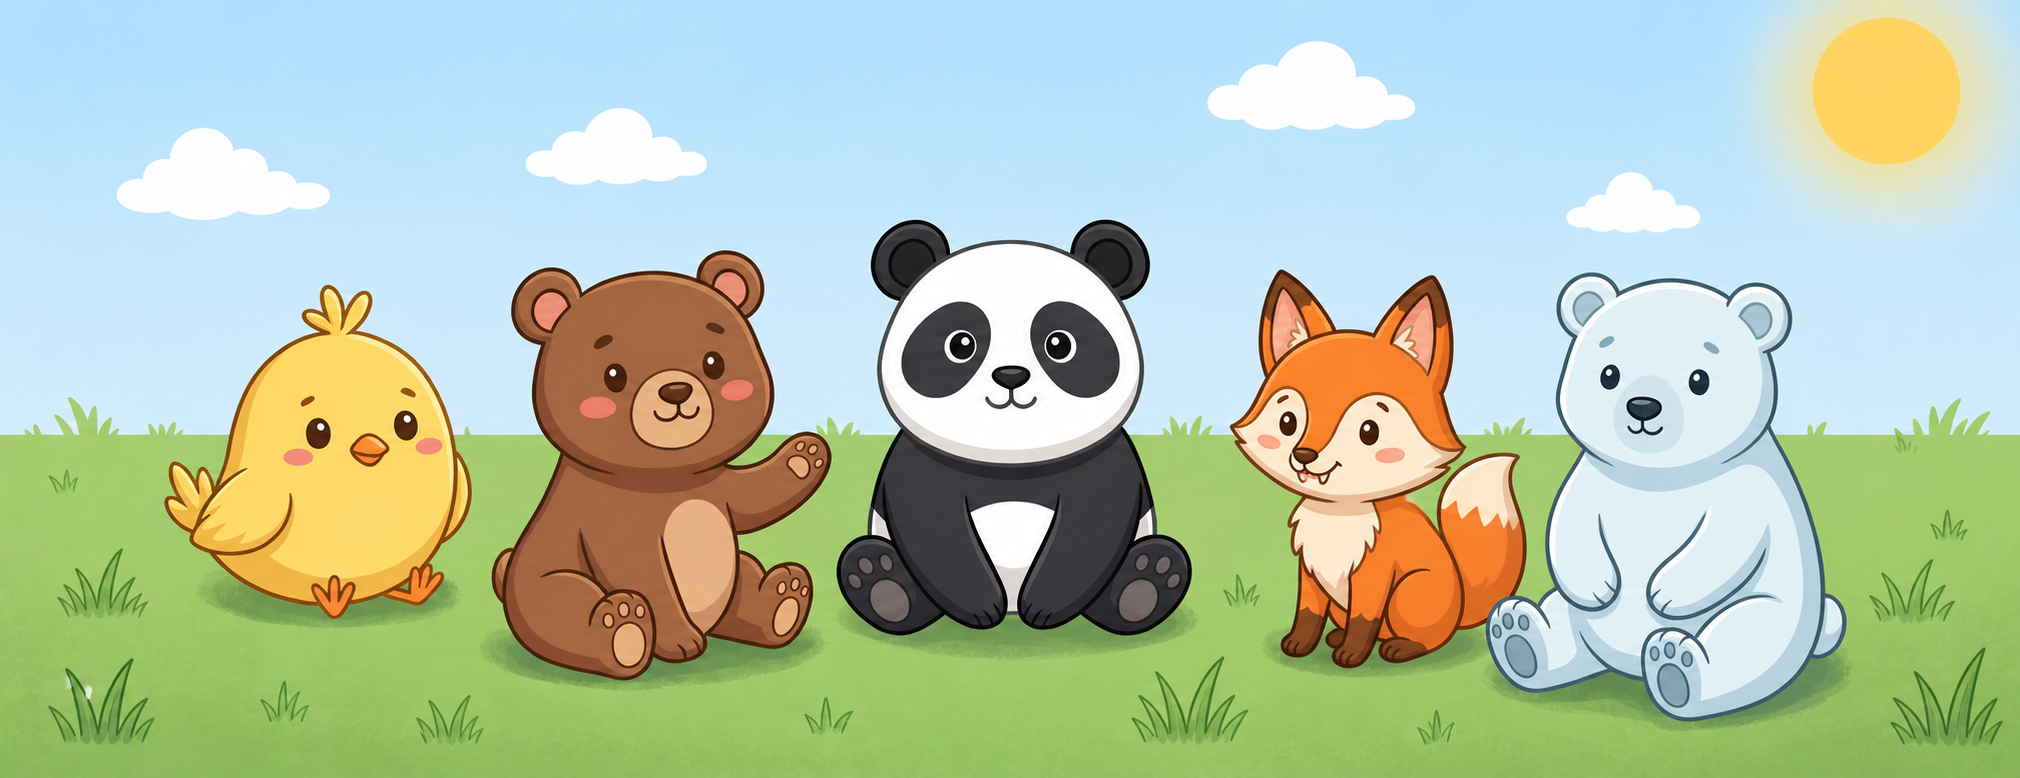
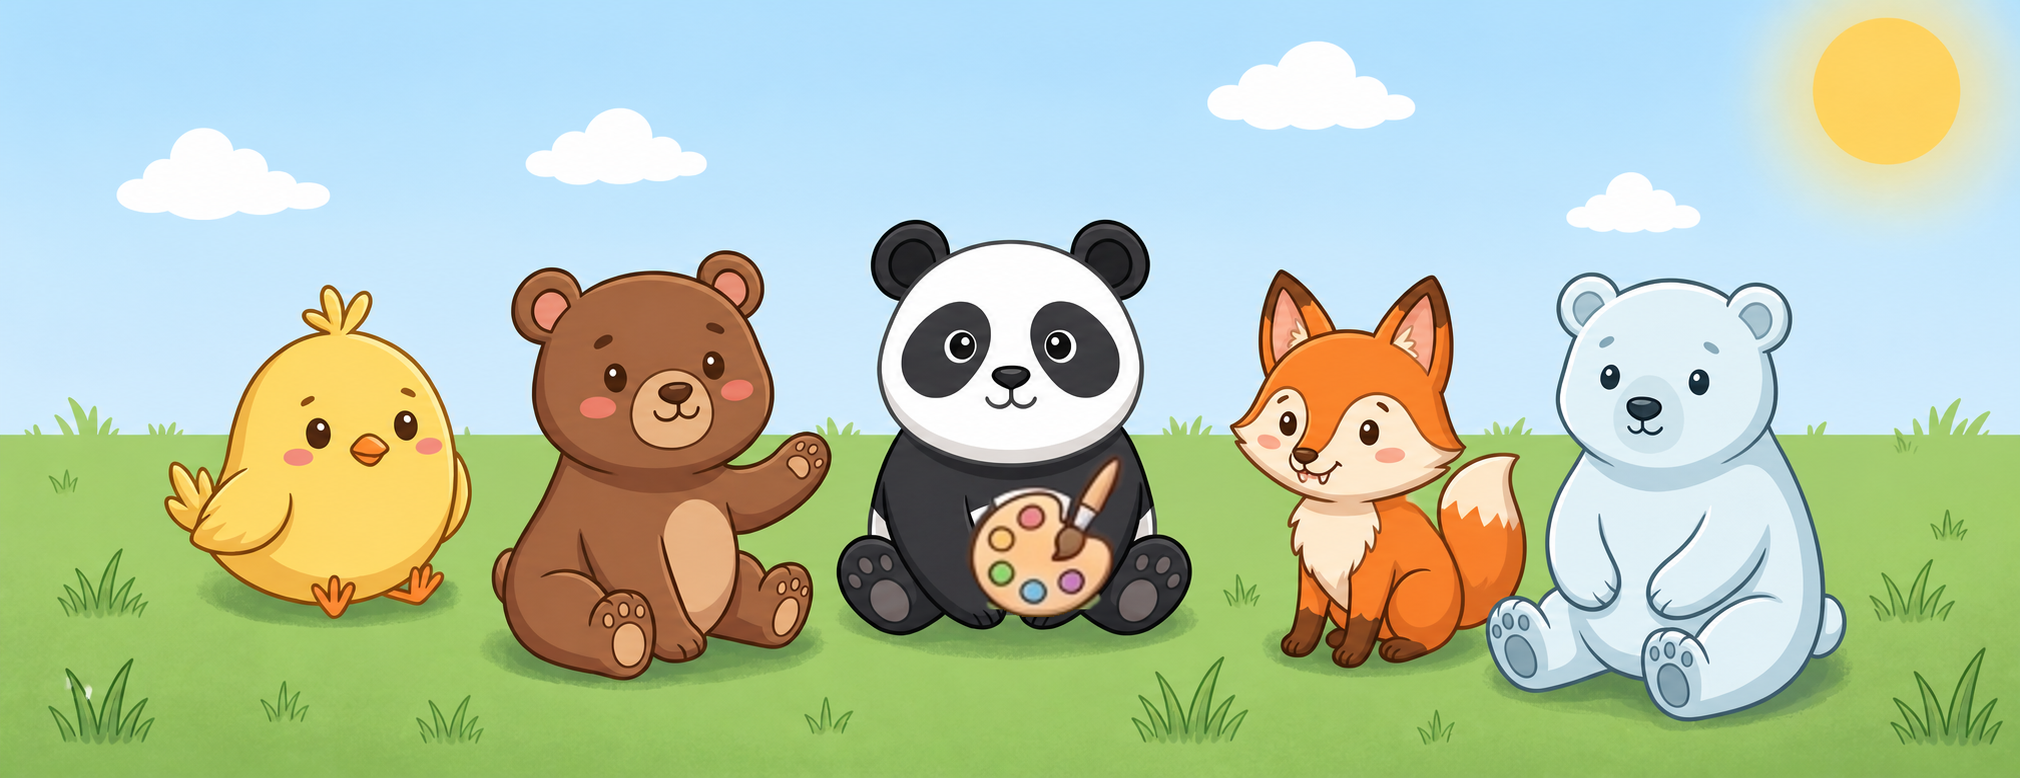
Give the hero panda its paint palette, center the header brand
The palette + brush from the design reference is composited onto the
original hero art (original eye style kept). The redundant Rainforest
Pals nav pill is gone — the theme chip row already links there.

Changed region(s): [[0.4678, 0.5861, 0.5614, 0.8021]]

diff --git a/public/home.html b/public/home.html
@@ -40,10 +40,8 @@
     @keyframes bob{0%,100%{transform:translateY(0)}50%{transform:translateY(-10px)}}
     .shell{position:relative;z-index:1;max-width:1240px;margin:0 auto;
       padding:calc(22px + env(safe-area-inset-top)) calc(22px + env(safe-area-inset-right)) calc(50px + env(safe-area-inset-bottom)) calc(22px + env(safe-area-inset-left))}
-    .nav{display:flex;align-items:center;justify-content:space-between;gap:12px;padding:6px 4px 18px}
+    .nav{display:flex;align-items:center;justify-content:center;padding:6px 4px 18px}
     .brand{display:flex;align-items:center;gap:8px;font-family:'Baloo 2',cursive;font-weight:800;font-size:24px;color:#5a4a72;white-space:nowrap}
-    .nav-pill{font-family:'Baloo 2',cursive;font-weight:700;font-size:16px;background:#ffffffb0;padding:10px 22px;border-radius:99px;color:#8a6fae;text-decoration:none;white-space:nowrap;
-      box-shadow:0 2px 0 #ffffff inset,0 4px 12px rgba(140,110,180,.15)}
     /* Theme chips — one per pal world, generated from pals.js so the row
        always matches the environments that actually exist in the app. */
     .chips{display:flex;justify-content:center;flex-wrap:wrap;gap:10px;padding:0 4px 8px}
@@ -81,7 +79,7 @@
     .foot-links a{color:#a98fc9;text-decoration:underline}
     @media(max-width:760px){
       .shell{padding:calc(14px + env(safe-area-inset-top)) calc(12px + env(safe-area-inset-right)) calc(36px + env(safe-area-inset-bottom)) calc(12px + env(safe-area-inset-left))}
-      .nav{flex-direction:column;gap:10px;padding-bottom:14px}
+      .nav{padding-bottom:14px}
       .hero{padding-top:16px;gap:20px}
       .hero-card{border-radius:28px;padding:9px;border-width:4px}
       .hero-card img{border-radius:20px}
@@ -102,13 +100,12 @@
   <div class="shell">
     <nav class="nav">
       <div class="brand"><span>🍡</span><span>Mochi Paint</span></div>
-      <a class="nav-pill" href="#forest-pals">Rainforest Pals</a>
     </nav>
     <div class="chips" id="chips"></div>
 
     <header class="hero">
       <div class="hero-card">
-        <img src="/hero-pals.png" alt="A chick, bear, panda, fox, and polar bear sitting together in a sunny kawaii field">
+        <img src="/hero-pals.png?v=2" alt="A chick, bear, panda holding a paint palette and brush, fox, and polar bear sitting together in a sunny kawaii field">
         <div class="hero-magic" aria-hidden="true">
           <span class="spark s1">✨</span>
           <span class="spark s2">✨</span>

diff --git a/public/sw.js b/public/sw.js
@@ -3,7 +3,7 @@
 // offline (a Play Store requirement — never show a browser error page).
 // Runtime strategy stays network-first: fresh files whenever online, cached
 // copy when the network is gone.
-var CACHE = "mochi-paint-v10";
+var CACHE = "mochi-paint-v11";
 var CORE = [
   "/",
   "/home",